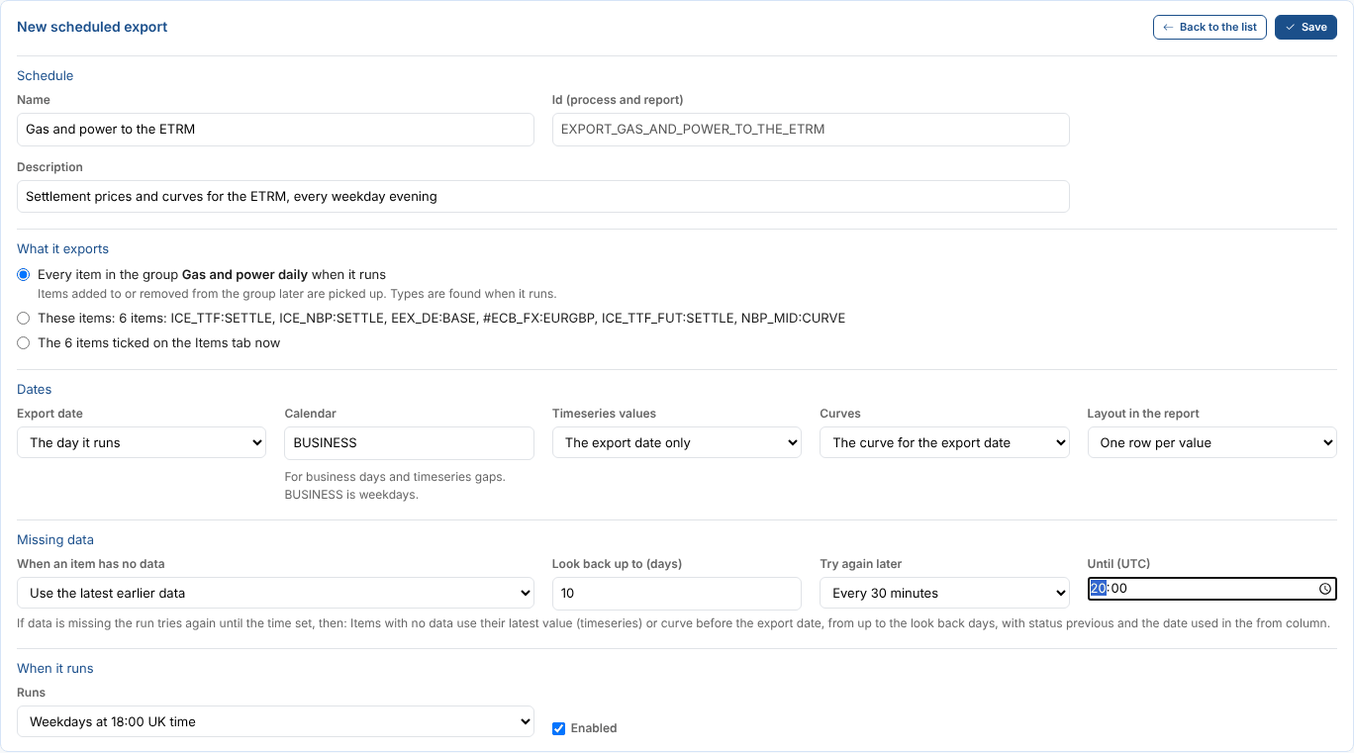
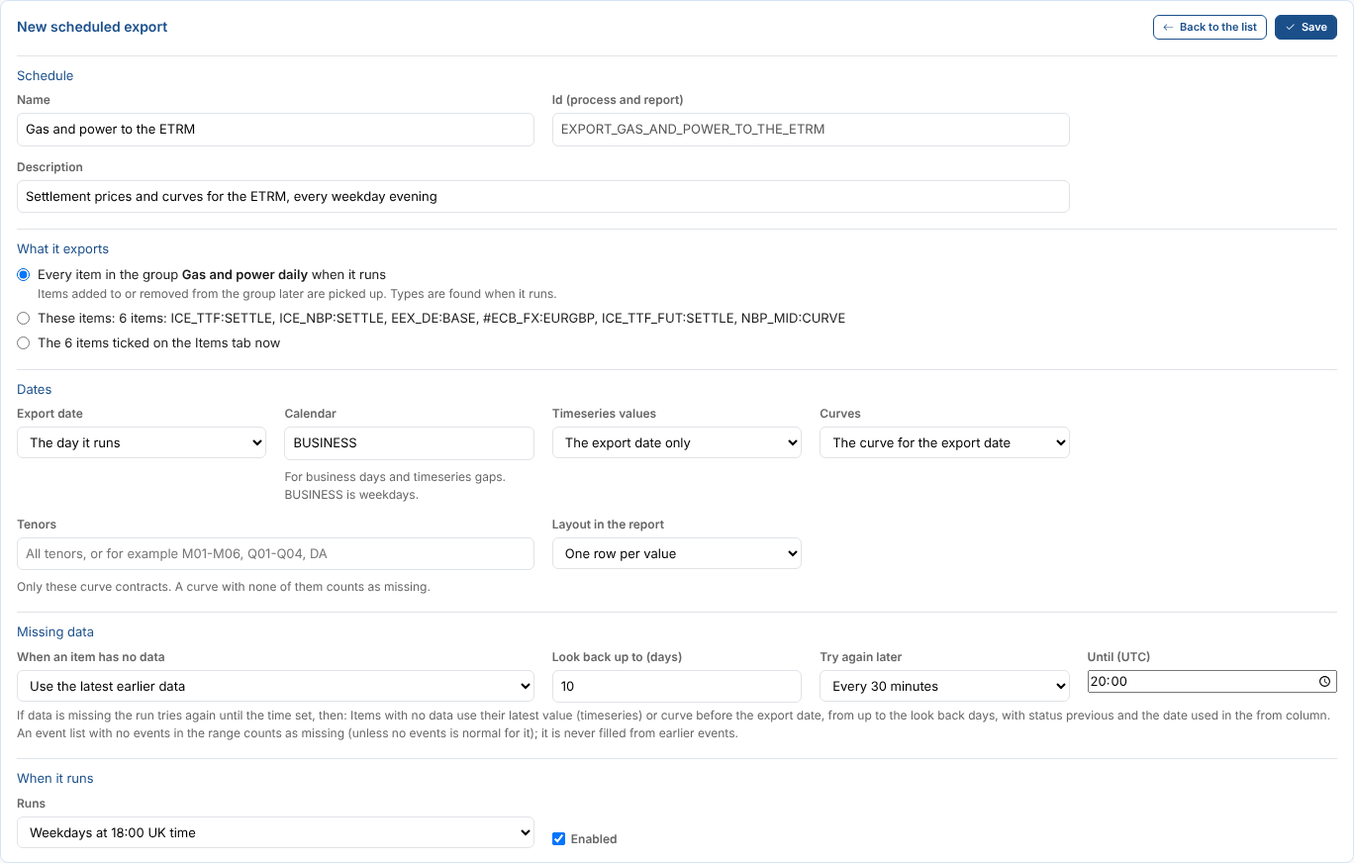
Updated export docs

diff --git a/docs/extensions/export/02-exporting.md b/docs/extensions/export/02-exporting.md
@@ -1,9 +1,9 @@
 ---
 title: Exporting data
-description: Export timeseries, curves and master data from a group, a search or a list of ids as CSV, TSV, Excel, JSON, JSON Lines, XML or HTML
+description: Export timeseries, curves, events and master data from a group, a search or a list of ids as CSV, TSV, Excel, JSON, JSON Lines, XML or HTML, with filters on curve tenors and event fields
 slug: /extensions/export/exporting
 sidebar_position: 2
-tags: [extension, export, csv, excel, json, xml, timeseries, curve, master data]
+tags: [extension, export, csv, excel, json, xml, timeseries, curve, events, tenors, master data]
 ---
 
 # Exporting data
@@ -19,7 +19,7 @@ There are two ways in:
 | Screen | How to open it | Items |
 |-|-|-|
 | **Export** app | Open **Groups**, select a group, then **Apps** and **Export** | The group's items. Untick any you want to leave out. |
-| **Export data** | **Information**, then **Export data** | Whatever you add on the **Items** tab |
+| **Export data** | **Operations**, then **Export data** | Whatever you add on the **Items** tab |
 
 Northgate Energy's market data team opens the group **Gas and power daily** and its **Export** app.
 
@@ -32,8 +32,9 @@ Northgate Energy's market data team opens the group **Gas and power daily** and 
 | Type | What is exported |
 |-|-|
 | TimeSeries, smart timeseries, event timeseries | The values in the date range on the **Export** tab |
-| Curves, smart curves, event curves, composed curves | The contracts of the curve for one ondate, the latest curve, or every curve in the date range (up to the number you set, latest first) |
-| A curve saved for one ondate, such as `ICE_TTF_FUT:SETTLE:2026-10-16` | That curve's contracts |
+| Curves, smart curves, event curves, composed curves | The contracts of the curve for one ondate, the latest curve, or every curve in the date range (up to the number you set, latest first). With **Tenors** set, only those contracts. |
+| A curve saved for one ondate, such as `ICE_TTF_FUT:SETTLE:2026-10-16` | That curve's contracts, also cut to the **Tenors** |
+| Event lists, such as `NGE_TRADES:ETRM` | The events whose event time is in the date range, a row each, with a column per field. You can [filter the events](#filter-the-events) on any other field and choose the fields to export. |
 | Master data objects | Their properties, one column each. Properties inside another property are named with a dot, such as `properties.country`. |
 
 The type of each item is shown on the **Items** tab. An item whose type cannot be found when the list loads is shown as **Unknown** and is read with the date range: what comes back decides how it is exported.
@@ -49,7 +50,7 @@ On **Export data** the list starts empty. Use the buttons on the **Items** tab:
 | Button | What it adds |
 |-|-|
 | **Add a group** | The items of any group you can see |
-| **Add data** | Timeseries and curves whose id contains the text you search for, private, public or both |
+| **Add data** | Timeseries, curves and event lists whose id contains the text you search for, private, public or both. Choose **Event lists** to find only those. |
 | **Add master data** | Master data objects whose id contains the text |
 | **Paste ids** | A list of ids, one per line or separated by commas. Choose whether they are data or master data. |
 
@@ -65,9 +66,58 @@ Tick the results you want and select **Add ticked**. **Remove ticked** and **Cle
 
 | Field | What it does |
 |-|-|
-| **Date range** | The timeseries values to export: a preset such as **Last 30 days** or **Last month**, **All values**, or **Custom** with your own **From** and **To** |
+| **Date range** | The timeseries values and the events to export: a preset such as **Last 30 days** or **Last month**, **All values**, or **Custom** with your own **From** and **To**. Events count by their event time, in whole days in UTC. |
 | **Curves** | **Latest curve**, **Curve for one ondate** (with the **Ondate**), or **Every ondate in the date range** |
 | **Most ondates per curve** | With every ondate in the range, only the latest this many curves are read for each curve |
+| **Tenors** | Only these contracts of every curve. Leave it empty for all of them. |
+
+### Tenors
+
+The ETRM at Northgate Energy only takes the first three months of the TTF futures curve, so the risk team sets **Tenors** to `M01-M03`. Separate the tenors with commas or spaces:
+
+| You write | Keeps |
+|-|-|
+| `DA`, `BOM`, `Q01` | That tenor |
+| `M01-M06` | A range: the same letters on both sides, and every number from the first to the last (`M01` to `M06`) |
+| `2027M01-2027M06` | A range of contract codes |
+| `M*` | Every tenor that starts with `M`. `*` stands for any text. |
+
+Tenors are matched without regard to case, on the contract's tenor (`M01`) or its contract code (`2026M11`). `M01-M03, Q01-Q04, DA` keeps the first three months, the next four quarters and the day ahead. A range needs the same letters on both sides: `2026M11-2027M02` is not a range, so list the codes: `2026M11, 2026M12, 2027M01, 2027M02`.
+
+![The Values section with the tenors set to M01-M03](/img/extensions/export/tenors.png)
+
+The **Items** tab shows how many contracts of each curve are in the tenors, for example **3 of 6 contracts in the tenors**. Changing the tenors rebuilds the file from the curves already read.
+
+---
+
+## Filter the events
+
+An event list exports every event whose event time is in the date range. To keep only some of them, select **Filter** on the event list's row of the **Items** tab.
+
+Northgate's risk system only wants TTF and German power trades of 15 MW or more, with six fields:
+
+![Filtering the events of the ETRM trades list](/img/extensions/export/event-filter.png)
+
+| Field | Example | Notes |
+|-|-|-|
+| Conditions | `product` **is one of** `TTF, DE Power Base` | **Add a condition** for each field to check. Every condition must be true. The fields of recent events of the list are listed under the conditions, and offered as you type. |
+| | `volume` **is at least** `15` | |
+| **Fields to export** | `product, contract, buysell, volume, price, counterparty` | The fields in the order you want them. Leave it empty for every field. The event list, `eventid` and `eventtime` are always exported. |
+| **No events is normal for this list** | Not ticked | For scheduled exports: a day with no events is exported as it is, rather than treated as [missing data](/docs/extensions/export/missing-data) |
+
+The conditions you can use:
+
+| Condition | Matches events where the field |
+|-|-|
+| **is**, **is not** | Has (or does not have) the value |
+| **is one of**, **is not one of** | Has one of the values, separated by commas |
+| **contains** | Contains the text, in any case |
+| **is more than**, **is at least**, **is less than**, **is at most** | Compares with a number, or a date such as `2026-10-20` |
+| **has a value**, **has no value** | Is set, or is not |
+
+A number matches the number or the same text, so `volume` **is** `15` finds both. The filter is applied by the platform, so only the matching events are read. The **Items** tab shows the conditions and fields under the event list's name.
+
+![The Items tab with the filtered event list and the curve cut to its tenors](/img/extensions/export/items-events.png)
 
 ---
 
@@ -80,11 +130,11 @@ Tick the results you want and select **Add ticked**. **Remove ticked** and **Cle
 | **Excel** | An `.xlsx` workbook with a sheet per table, a frozen header row, filters, and real numbers and dates |
 | **JSON** | The rows of the layout, or each item with its values (set on the **Options** tab) |
 | **JSON Lines** | One JSON row per line |
-| **XML** | Each item with its values: `timeseries` with `value` elements, `curve` with `ondate` and `contract` elements, `object` with `property` elements |
+| **XML** | Each item with its values: `timeseries` with `value` elements, `curve` with `ondate` and `contract` elements, `events` with `event` and `field` elements, `object` with `property` elements |
 | **HTML** | A page of formatted tables to open in a browser or attach to an email |
 | **Template** | The platform renders the whole group with a server export template. Only for a group with every item ticked. The standard templates export timeseries only. |
 
-When a CSV or TSV export has more than one table, for example timeseries and curves in a column per item layout, it downloads as a zip with a file per table. **One file per item, in a zip** gives a separate file for each item in any format.
+When a CSV or TSV export has more than one table, for example timeseries and curves in a column per item layout, or values and events, it downloads as a zip with a file per table. **One file per item, in a zip** gives a separate file for each item in any format.
 
 ---
 
@@ -96,7 +146,9 @@ When a CSV or TSV export has more than one table, for example timeseries and cur
 | **A column per item** | Timeseries by `time` and curves by `ondate` and `tenor`, with a column for each item |
 | **A column per ondate** | Curves by item and `tenor`, with a column for each ondate. Timeseries as a column per item. |
 
-Master data is always its own table, with a column per property.
+Events and master data are always tables of their own in every layout: an **Events** table with a row per event and a column per field, and an **Objects** table with a column per property.
+
+![The preview of the Events table](/img/extensions/export/preview-events.png)
 
 ![The preview of the column per item layout](/img/extensions/export/preview-wide.png)
 
@@ -116,14 +168,14 @@ Master data is always its own table, with a column per property.
 | **Item columns are named by** | The id or the name of each item, in the column layouts |
 | **Header row** | Leave it out for systems that do not expect one |
 | **Name, currency and units** | Extra columns in the long layout, or an Items table in the column layouts |
-| **Other value fields** | Fields such as a value's status or a contract's start and end dates, in the long layout |
-| **JSON shape** | **Rows of the layout**, or **Items with their values** |
+| **Other value fields** | Fields such as a value's status, or a contract's start and end dates and contract code (`absolute`), in the long layout |
+| **JSON shape** | **Rows of the layout**, or **Items with their values**: each item with its values, curves or events |
 
 ---
 
 ## Preview and download
 
-Select **Preview** to read the values and see each table, and the file text, on the **Preview** tab. **Download** saves the file and **Copy** puts a text format on the clipboard. Changing the format, layout or options rebuilds the file without reading the values again. Changing the items, dates or curve settings reads them again.
+Select **Preview** to read the values and see each table, and the file text, on the **Preview** tab. **Download** saves the file and **Copy** puts a text format on the clipboard. Changing the format, layout, options, tenors or the fields to export rebuilds the file without reading the values again. Changing the items, dates, curve settings or event conditions reads them again.
 
 Any item that could not be read is shown on the **Items** tab with the platform's reason, and the rest are still exported.
 
@@ -135,6 +187,6 @@ Your settings are remembered in your browser, so the next export starts the same
 
 ## The REST calls behind an export
 
-The **API** tab shows the calls the export makes, with your current dates and the first item of each type: timeseries values in a range, the ondates of a curve, a curve for an ondate, a master data object, and the whole group. Use them to fetch the same data from a script or another system. There is also a Python example.
+The **API** tab shows the calls the export makes, with your current dates and the first item of each type: timeseries values in a range, the ondates of a curve, a curve for an ondate, the events of an event list with its filter, a master data object, and the whole group. The platform always returns every contract of a curve: the tenor filter is applied by the export. Use them to fetch the same data from a script or another system. There is also a Python example.
 
 ![The API tab](/img/extensions/export/api.png)

diff --git a/docs/extensions/export/06-reference.md b/docs/extensions/export/06-reference.md
@@ -33,12 +33,17 @@ The process `input` is the schedule. You can change it in the portal's process e
 | `key`, `name`, `report` | `gas_and_power_to_the_etrm`, `Gas and power to the ETRM`, `EXPORT_GAS_AND_POWER_TO_THE_ETRM` | The schedule's key, name, and the report the runs are stored in |
 | `group` | `6710c2...` | A group to export, read on each run. When it is set, `items` is ignored. |
 | `items` | `[{"id": "ICE_TTF:SETTLE", "service": "data", "type": "VarTimeSeries"}]` | The items to export. `service` is `data` or `object`. `type` may be empty, and is then found when it runs. `name`, `currency` and `units` are optional. |
+| `items[].conditions` | `[{"field": "volume", "op": "gte", "value": "15"}]` | An event list's conditions, as set in its filter. `op` is `eq`, `ne`, `in`, `nin`, `contains`, `gt`, `gte`, `lt`, `lte`, `set` or `unset`. |
+| `items[].filterText` | `"product" in ["TTF", "DE Power Base"] and "volume" >= 15` | The conditions as an ODSL condition, written by the extension. This is what the run uses. |
+| `items[].fields` | `["product", "contract", "volume", "price"]` | An event list's fields to export; empty for all |
+| `items[].emptyOk` | `false` | `true` when no events is normal for the event list |
 | `ondate` | `""` or `2026-10-16` | Empty for a scheduled run. A date exports that date, with no retries. |
 | `offset` | `0` | Business days from the run date to the export date: `0`, `-1` or `-2` |
 | `calendar` | `BUSINESS` | Calendar for business days and timeseries gaps |
 | `range` | `{"type": "days", "days": 7}` | Timeseries values: `type` is `ondate`, `days` (with `days`), `mtd`, `previousMonth` or `fixed` (with `start` and `end`) |
 | `curves` | `ondate` | `ondate`, `latest` or `range` |
 | `maxOndates` | `31` | With `range` curves, the latest this many curves |
+| `tenors` | `M01-M03, Q01` | The curve contracts to keep; empty for all |
 | `layout` | `long` | `wide` also stores the column per item table |
 | `missing.action` | `previous` | `skip`, `blank`, `previous` or `fail` |
 | `missing.lookback` | `10` | Days to look back for earlier data |
@@ -54,15 +59,16 @@ The data of a stored report, which the report template and the output templates 
 
 | Field | What it holds |
 |-|-|
-| `export` | `key`, `name`, `ondate` (the export date), `start` and `end` (the timeseries range), `range`, `curves`, `layout`, `missingAction`, `generated` (UTC) |
-| `summary` | Counts as text: `items`, `exported`, `partial`, `previous`, `missing`, `errors`, `rows`. `complete` is true when every item was exported from its own data, and `hasMissing`, `hasErrors`, `hasPrevious` and `hasPartial` say whether each count is above zero. |
+| `export` | `key`, `name`, `ondate` (the export date), `start` and `end` (the timeseries range), `range`, `curves`, `tenors`, `layout`, `missingAction`, `generated` (UTC) |
+| `summary` | Counts as text: `items`, `exported`, `partial`, `previous`, `missing`, `errors`, `rows`, `events`. `hasEvents` says whether any event list was exported. `complete` is true when every item was exported from its own data, and `hasMissing`, `hasErrors`, `hasPrevious` and `hasPartial` say whether each count is above zero. |
 | `items` | One per item: `id`, `type`, `name`, `status` (`ok`, `partial`, `previous`, `missing`, `error`), `rows`, `from`, `message`, and the flags `isOk`, `isPartial`, `isPrevious`, `isMissing`, `isError` |
 | `rows` | The values: `id`, `type`, `ondate` (curves), `index` (time or tenor), `value` (as stored), `text` (the value as text, without trailing zeros), `numeric`, `status`, `from`, `name`, `currency`, `units`, and the flags `isPrevious` and `isMissing` |
+| `events`, `eventColumns` | Events: each event's `cells` (a `text` per column) and `props` (`name`, `text` and `numeric`, for the fields that have a value), and the column names: `event`, `eventid`, `eventtime`, then `eventstart` and `eventend` when they differ from the event time, `timezone` and `eventtype` when set, then the fields |
 | `objects`, `objectColumns` | Master data: each object's `id`, `cells` (a `text` per column) and `props` (`name` and `text`), and the column names |
 | `wide` | With the `wide` layout: `columns`, `series` (rows by `key`) and `curves` (rows by `ondate` and `tenor`), each with `cells` |
-| `hasRows`, `hasObjects` | Whether there are rows and master data |
+| `hasRows`, `hasEvents`, `hasObjects` | Whether there are rows, events and master data |
 
-Every row has every field, blank when there is nothing, so your own Mustache templates can use them safely. Array elements have a `comma` field, `,` on all but the last, for writing JSON.
+Every row has every field, blank when there is nothing, so your own Mustache templates can use them safely. Array elements, and the columns, cells and props of the events, have a `comma` field, `,` on all but the last, for writing JSON and CSV.
 
 ---
 
@@ -76,6 +82,7 @@ The output templates are Mustache scripts of the extension, used as the `@transf
 | `odsl-extensions\extensions\export\odsl.export.output.csv_values` | CSV with id, ondate, index and value |
 | `odsl-extensions\extensions\export\odsl.export.output.csv_wide` | CSV with a column per item |
 | `odsl-extensions\extensions\export\odsl.export.output.csv_objects` | CSV of the master data |
+| `odsl-extensions\extensions\export\odsl.export.output.csv_events` | CSV of the events |
 | `odsl-extensions\extensions\export\odsl.export.output.tsv` | Tab separated |
 | `odsl-extensions\extensions\export\odsl.export.output.json` | JSON |
 | `odsl-extensions\extensions\export\odsl.export.output.jsonl` | JSON Lines |
@@ -92,7 +99,7 @@ To send another format, copy one into your own Mustache script and use it as the
 |-|-|-|
 | Extension | `odsl.export` | Export data |
 | View | Groups, Apps, **Export** | Export the selected group (feature `odsl.export.manage`) |
-| View | Information, **Export data** | Export anything (feature `odsl.export.data`) |
+| View | Operations, **Export data** | Export anything (feature `odsl.export.data`) |
 | Feature policy | `extension.odsl.export` | Both features, for everyone |
 | Scripts | `odsl.export.common`, `odsl.export.workspace`, `odsl.export.schedules` | The screens |
 | Script | `odsl.export.runner` | The ODSL script every schedule's process runs |
@@ -108,7 +115,9 @@ To send another format, copy one into your own Mustache script and use it as the
 |-|-|
 | The **Export** app is not on the **Apps** tab of a group | The extension and the portal must both be up to date: the Groups screen lists Apps views with the section `Manage`. |
 | An item shows **Error** | The message is the platform's reason, for example the item does not exist or you have no access to it |
-| A curve exports nothing | With **Curve for one ondate**, check there is a curve on that date. With every ondate in the range, check the range contains curve dates. |
+| A curve exports nothing | With **Curve for one ondate**, check there is a curve on that date. With every ondate in the range, check the range contains curve dates. With **Tenors** set, the **Items** tab says how many contracts are in the tenors: check the tenors are the curve's (`M01`) or its contract codes (`2026M11`). |
+| An event list exports no events | Check the date range: events count by their event time, in whole days in UTC. Then check the conditions of its filter, for example a number written with text around it. The **API** tab shows the filter sent. |
+| A delivery of an event list is empty | The CSV, tab separated and JSON Lines formats write timeseries and curve values only. Choose **CSV of the events**, JSON, XML or HTML. |
 | A scheduled run is still waiting | **Recent runs** shows `reschedule` while it waits for late data. It decides at the retry time. |
 | A run failed with the message that data is missing | **When an item has no data** is **Stop the export**. The process log lists the items. |
 | The **Template** format is greyed out | It needs a group with every item ticked |

diff --git a/docs/extensions/export/01-overview.md b/docs/extensions/export/01-overview.md
@@ -1,9 +1,9 @@
 ---
 title: What is the Export extension?
-description: An introduction to the Export extension, which exports timeseries, curves and master data in the format other systems need, on demand or on a schedule
+description: An introduction to the Export extension, which exports timeseries, curves, events and master data in the format other systems need, on demand or on a schedule
 slug: /extensions/export/overview
 sidebar_position: 1
-tags: [extension, export, csv, excel, schedule, automation]
+tags: [extension, export, csv, excel, schedule, automation, events, tenors]
 ---
 
 # What is the Export extension?
@@ -11,11 +11,12 @@ tags: [extension, export, csv, excel, schedule, automation]
 Prices and curves rarely stay in one place. A trading system, a risk engine, a spreadsheet or a partner needs them in its own format, usually every day, and usually before someone notices they are missing. **The Export extension** gets your data out of the platform in the shape the other side expects, and keeps doing it on a schedule. It answers questions like:
 
 - Can I get the settlement prices for these ten timeseries as a CSV for last week?
-- Can I send this evening's forward curves to our ETRM as JSON, every weekday?
+- Can I send this evening's forward curves to our ETRM as JSON, every weekday, with only the first three months?
+- Can I send today's TTF and German power trades of 15 MW or more to the risk system, with just the fields it reads?
 - What happens to the export when one curve is late, and does the receiving system know?
 - Can the market data team get the same export as an Excel file, with real dates and numbers?
 
-Throughout these pages we follow Northgate Energy, a fictional gas and power trader. Every weekday evening its market data team sends six items from its group **Gas and power daily** to the ETRM: front month settlement prices for TTF and NBP, the German power base day-ahead price, the EUR/GBP reference rate, the TTF futures curve and the NBP mid curve.
+Throughout these pages we follow Northgate Energy, a fictional gas and power trader. Every weekday evening its market data team sends six items from its group **Gas and power daily** to the ETRM: front month settlement prices for TTF and NBP, the German power base day-ahead price, the EUR/GBP reference rate, the TTF futures curve and the NBP mid curve. Its risk team also exports the day's trades from the event list `NGE_TRADES:ETRM`, where the ETRM's trades are loaded.
 
 ![The Export app on the Groups screen, with the group's six items read and previewed](/img/extensions/export/preview.png)
 
@@ -25,7 +26,9 @@ Throughout these pages we follow Northgate Energy, a fictional gas and power tra
 
 | Idea | What it means |
 |-|-|
-| **Items** | What you export: timeseries, curves (including smart, event and composed curves), curves saved for one ondate, and master data objects. They come from a group, a search or a list of ids. |
+| **Items** | What you export: timeseries, curves (including smart, event and composed curves), curves saved for one ondate, event lists and master data objects. They come from a group, a search or a list of ids. |
+| **Tenor filter** | Keeps only some contracts of every curve, such as `M01-M03, Q01`. |
+| **Event filter** | The events of an event list whose event time is in the date range, with conditions on any other field, such as product is TTF and volume is at least 15, and the fields to export. |
 | **Format** | CSV, TSV, Excel, JSON, JSON Lines, XML or HTML, or a server export template for a whole group. |
 | **Layout** | One row per value, a column per item, or a column per ondate for curves. |
 | **Schedule** | A process on the platform that runs the export at set times and stores the result as a report for each export date. |
@@ -39,7 +42,7 @@ Throughout these pages we follow Northgate Energy, a fictional gas and power tra
 | Screen | Where | What it does |
 |-|-|-|
 | **Export** app | **Groups**, then a group, then **Apps** | Exports the selected group |
-| **Export data** | **Information** menu | Exports anything you add: groups, data found by id, master data and pasted ids |
+| **Export data** | **Operations** menu | Exports anything you add: groups, data and event lists found by id, master data and pasted ids |
 | **Schedules** tab | Both screens | Lists the scheduled exports and creates, runs and changes them, with their deliveries |
 | Export reports | **Reports** | One report per scheduled export, stored for each export date |
 
@@ -47,7 +50,7 @@ Throughout these pages we follow Northgate Energy, a fictional gas and power tra
 
 ## Where next
 
-- [Exporting data](/docs/extensions/export/exporting): choose items, a format and a layout, preview and download.
+- [Exporting data](/docs/extensions/export/exporting): choose items, a format and a layout, filter curve tenors and events, preview and download.
 - [Scheduling an export](/docs/extensions/export/scheduling): run the export on the platform every day.
 - [Handling missing data](/docs/extensions/export/missing-data): what a scheduled export does when data is late or missing.
 - [Delivering exports](/docs/extensions/export/deliveries): send each export by email or to any automation target, in the format you need.

diff --git a/docs/extensions/export/04-missing-data.md b/docs/extensions/export/04-missing-data.md
@@ -20,6 +20,8 @@ Data arrives late. A broker file is delayed, an exchange publishes after the cut
 | Curve, with **The curve for the export date** | No curve for the export date |
 | Curve, with **The latest curve on or before the export date** | No curve at all on or before the export date |
 | Curve, with **Every curve in the timeseries range** | No curve in the range |
+| Curve, with **Tenors** set | None of its curves has a contract in the tenors. The report says so, for example `No contracts in the tenors Q05`. |
+| Event list | No events in the range that meet its conditions, unless **No events is normal for this list** is ticked in its [filter](/docs/extensions/export/exporting#filter-the-events) |
 | Curve saved for one ondate, master data | The item cannot be read |
 | Any item | The platform returns an error, for example the item was deleted or you have no access to it. The report shows the reason. |
 
@@ -33,7 +35,7 @@ Gaps inside a timeseries range are a separate setting: the item has values, but 
 |-|-|-|
 | **Leave the item out** | Exports the other items. The report lists the item with the reason. | `missing` or `error` |
 | **Write a blank row for it** | Writes one row for the item with an empty value: for a timeseries at the end of its range, for a curve at the export date with no tenor | `missing` |
-| **Use the latest earlier data** | For a timeseries, the latest value before the end of its range. For a curve, the latest curve before the export date. Only data from the **Look back up to** days before is used. The rows keep the export date and say where the data came from in `from`. Master data and curves saved for one ondate have no earlier data, so they are left out. | `previous`, with `from` |
+| **Use the latest earlier data** | For a timeseries, the latest value before the end of its range. For a curve, the latest curve before the export date, cut to the tenors. Only data from the **Look back up to** days before is used. The rows keep the export date and say where the data came from in `from`. Master data and curves saved for one ondate have no earlier data, so they are left out. | `previous`, with `from` |
 | **Stop the export** | Stores nothing and sends nothing, and the run of the process fails with the list of items without data | The process run is `failed` |
 
 Northgate Energy's ETRM must have a price for every item every day, so the team uses **Use the latest earlier data** with a look back of 10 days. On 19 October the German power base price and the TTF futures curve were late, so the report used their values of 16 October, the Friday before:
@@ -44,6 +46,10 @@ Northgate Energy's ETRM must have a price for every item every day, so the team 
 | `ICE_TTF_FUT:SETTLE` | `2026-10-19` | `M01` | `32.011` | `previous` | `2026-10-16` |
 
 The ETRM can see from `status` and `from` which prices are rolled forward.
+
+:::note
+An event list is never filled from earlier events: yesterday's trades are not today's. With **Write a blank row for it** or **Use the latest earlier data**, an event list with no events is left out and listed as `missing`. With **Try again later** the run waits for its events like any other item, and with **Stop the export** a missing event list stops the run. For a list where a quiet day is normal, such as broker confirmations on a day with no broker trades, tick **No events is normal for this list** in its filter.
+:::
 
 :::caution
 **Use the latest earlier data** sends yesterday's numbers as today's. Only use it when the receiving system can handle that, or when it reads `status`. Otherwise prefer **Leave the item out**, or **Stop the export** with an automation on the process failing so someone is told.

diff --git a/docs/extensions/export/05-deliveries.md b/docs/extensions/export/05-deliveries.md
@@ -50,13 +50,16 @@ Select **Add the delivery**. **Edit** changes a delivery and the bin button dele
 | **CSV with id, ondate, index and value** | The four columns most systems need, as the platform's generic timeseries CSV template |
 | **CSV with a column per item** | Timeseries rows by `time`, then curve rows by `ondate` and `tenor`, with a column per item. Needs the schedule layout **One row per value, plus a column per item table**. |
 | **CSV of the master data** | `id` and a column per property |
+| **CSV of the events** | `event`, `eventid`, `eventtime` and a column per field of the event lists, a row per event. Event times are in UTC. |
 | **Tab separated, one row per value** | As the first CSV, with tabs |
-| **JSON** | The export details, `complete`, the `items` with their status and message, the `rows` and the master data `objects` |
+| **JSON** | The export details, `complete`, the `items` with their status and message, the `rows`, the `events` (a field per column, numbers as numbers) and the master data `objects` |
 | **JSON Lines** | One row per line |
-| **XML** | An `export` element with `item`, `value` and `object` elements |
-| **HTML page with the summary and tables** | The summary, items and values with inline styles, ready to be an email body |
+| **XML** | An `export` element with `item`, `value`, `event` (with a `field` element per field) and `object` elements |
+| **HTML page with the summary and tables** | The summary, items, values and events with inline styles, ready to be an email body |
 
-In every format `status` is `ok`, `previous` (with the date used in `from`) or `missing`, as set by your [missing data rules](/docs/extensions/export/missing-data). A missing value is empty in CSV and XML and `null` in JSON. Text values have double quotes replaced by single quotes, so CSV columns never break.
+The CSV, tab separated and JSON Lines formats other than **CSV of the events** write the timeseries and curve values only. For a schedule that exports event lists, send **CSV of the events**, or JSON, XML or HTML, which have everything. A schedule that only exports event lists offers **CSV of the events** first.
+
+In every format `status` is `ok`, `previous` (with the date used in `from`) or `missing`, as set by your [missing data rules](/docs/extensions/export/missing-data). A missing value is empty in CSV and XML and `null` in JSON. In text values, double quotes become single quotes, backslashes become slashes and line breaks become spaces, so CSV and JSON never break.
 
 For example, the JSON delivery for 19 October starts:
 

diff --git a/docs/extensions/export/03-scheduling.md b/docs/extensions/export/03-scheduling.md
@@ -44,6 +44,8 @@ Open the export you want to schedule, as on [Exporting data](/docs/extensions/ex
 
 Northgate Energy exports every item in the group, so a new curve only has to be added to the group.
 
+An event list in a fixed list keeps the [filter](/docs/extensions/export/exporting#filter-the-events) it had on the **Items** tab: its conditions, the fields to export and whether no events is normal. The list shows its conditions. To change them, change the filter on the **Items** tab and choose **The items ticked on the Items tab now**. An event list in a group is exported with every event and field.
+
 ---
 
 ## 4. Choose the dates
@@ -52,8 +54,9 @@ Northgate Energy exports every item in the group, so a new curve only has to be 
 |-|-|-|
 | **Export date** | **The day it runs** | The date each run exports: the day it runs, the business day before, or two business days before. A run early on Tuesday morning with **The business day before** exports Monday. |
 | **Calendar** | `BUSINESS` | The calendar for business days, and for gaps in a timeseries range. `BUSINESS` is weekdays. |
-| **Timeseries values** | **The export date only** | Or the last days up to the export date, month to date, the previous month, or fixed dates |
+| **Timeseries values** | **The export date only** | Or the last days up to the export date, month to date, the previous month, or fixed dates. Event lists export the events whose event time is in the same days (UTC). |
 | **Curves** | **The curve for the export date** | Or the latest curve on or before the export date, or every curve in the timeseries range |
+| **Tenors** | Empty | Only these contracts of every curve, such as `M01-M03, Q01`, written as on the [Export tab](/docs/extensions/export/exporting#tenors). A curve with none of them counts as missing. |
 | **Layout in the report** | **One row per value** | Choose **One row per value, plus a column per item table** if a delivery needs the column per item CSV |
 
 ---
